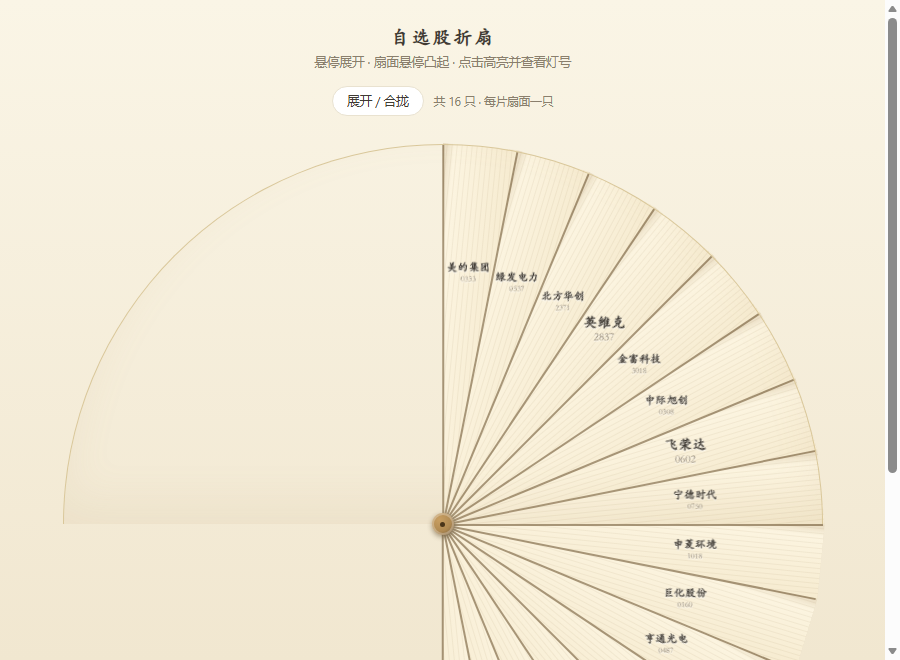
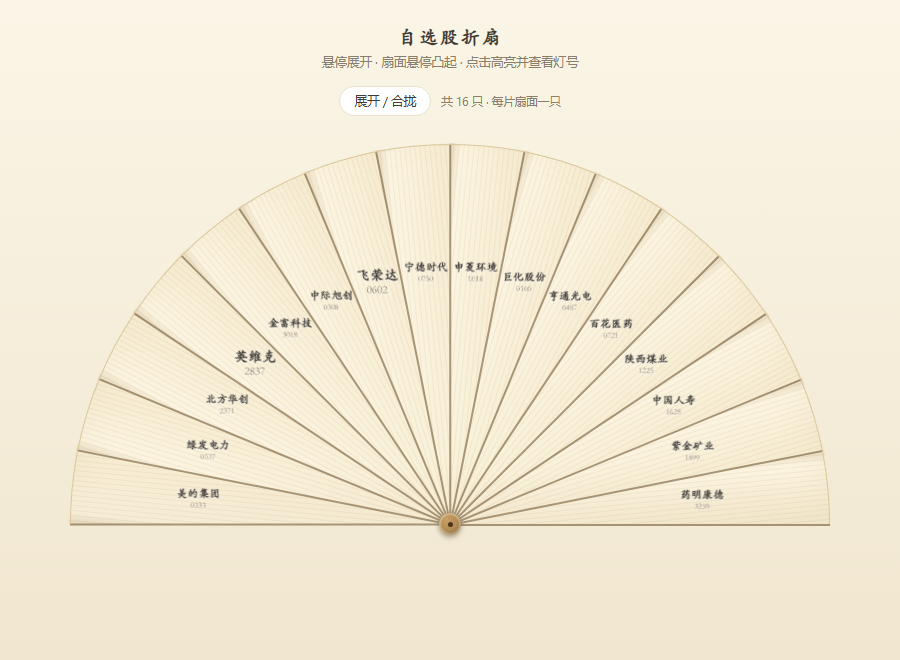
修正折扇 v4 角度映射：第一只股票在最左，依次排到最右

diff --git a/docs/previews/fan-demo-v4.html b/docs/previews/fan-demo-v4.html
@@ -244,7 +244,7 @@ if (location.search.indexOf("open=1") !== -1){
 
 // 扇骨：深色细条从中心向外辐射（N+1 条）
 for (let i = 0; i <= N; i++){
-  const a = i * (180 / N) - 90;
+  const a = i * (180 / N) - 180;
   const rib = document.createElement("div");
   rib.className = "rib";
   rib.style.transform = `rotate(${a}deg)`;
@@ -253,7 +253,7 @@ for (let i = 0; i <= N; i++){
 
 // 扇面：每片楔形纸面 + 正立居中文字
 STOCKS.forEach((s, i) => {
-  const a = (i + 0.5) * (180 / N) - 90;
+  const a = (i + 0.5) * (180 / N) - 180;
   const blade = document.createElement("div");
   blade.className = "blade";
   blade.style.setProperty("--a", a + "deg");
